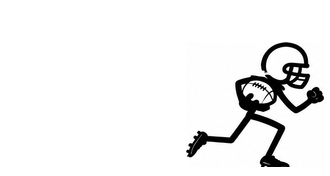
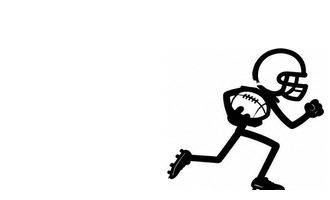
Call cards: Jason's figure library on all eleven, helmets matched
Jason mapped his library to the cards, reviewed a full mockup card by card and
said "Love it". Every call card now carries his art, except Left, middle, right,
which keeps its banana arrows:

- Ten yards: Run 2 (speed lines) / tackle. Move the chains: the linesman with
  the 1 pole / tackle. Convert on 3rd: his pointing first-down signal / the down
  box turned to 4. Kickoff: punt returner / ball on the tee. Drive end:
  touchdown signal, goal posts, punter, fumble. Break one: Run 2 / tackle.
  Three and out: punter / pointing signal. Red zone: celebration, field-goal
  pair, dropped pass.
- Touchdown, field goal, or nothing? is two across with Nothing on its own
  line below (.is-3stack) - "Maybe touchdown and field goal on the top line and
  nothing on its own line below?" Three across left "Touchdown" hitting the
  tile edge.
- tools/figures.mjs sizes by helmet, not by pixel: the sheets are drawn at
  different sizes, so each carries a helmet unit (calibrated on the rendered
  cards after "3 has a scale problem. 4 has a scale problem"), and every figure
  on a card gets one helmet size. Library figures stop at two thirds of the
  tile height so heads stay under the labels. trim() is told the paper is
  white - a flipped figure was being trimmed to a scrap.
- The play lines on Ten yards, Move the chains and Break one are switched off
  (LINE_ART is empty); their SVGs remain in ART for now.

Deployed beb8dca7 (812/812 tests, smoke 28 routes, /art figures 200).

Changed region(s): [[0.4848, 0.2273, 1.0, 0.9659]]

diff --git a/public/screens/live-game.screen.js b/public/screens/live-game.screen.js
@@ -3145,8 +3145,14 @@ function paint(wrap) {
      * keeps its own order (run first); only the card reorders, and the grid
      * flows by column so this list reads down the left, then down the right. */
     const SCRIPT_ORDER = ['pass_yes', 'pass_no', 'run_yes', 'run_no'];
-    /* Yes/no cards that carry a play line behind each tile - see .has-art. */
-    const LINE_ART = new Set(['explosive', 'first_down', 'drive_breakout']);
+    /* Yes/no cards that carry a play line behind each tile - see .has-art. Empty
+     * since Jason's figure library (2026-09-11) took those three cards; the SVGs
+     * stay in ART until he has seen the figures on them. */
+    const LINE_ART = new Set([]);
+    /* Cards with Jason's figures behind each tile - see .has-fig and
+     * tools/figures.mjs, which writes public/art/fig-<card>-<n>.png. */
+    const FIG_CARDS = new Set(['explosive', 'first_down', 'third_down', 'kickoff_return',
+      'drive_end', 'drive_breakout', 'three_and_out', 'redzone_outcome']);
     const SCRIPT_SHORT = { pass_yes: 'First down', pass_no: 'Short', run_yes: 'First down', run_no: 'Short' };
     const isScript = type.id === 'script';
     const shown = isScript
@@ -3156,7 +3162,9 @@ function paint(wrap) {
     const tiles = el('div', 'lg-tiles' + (isScript ? ' is-script' : priced.length > 3 ? ' is-4' : '')
       + ' n-' + priced.length + (type.id === 'fourth_down' ? ' is-fourth' : '')
       + (type.id === 'direction' ? ' is-dir' : '')
-      + (LINE_ART.has(type.id) ? ' has-art art-' + type.id : ''));
+      + (LINE_ART.has(type.id) ? ' has-art art-' + type.id : '')
+      + (FIG_CARDS.has(type.id) ? ' has-fig fig-' + type.id : '')
+      + (type.id === 'redzone_outcome' ? ' is-3stack' : ''));
     for (const o of shown) {
       const b = el('button', 'lg-tile');
       const win = Math.round(S.stake * o.pays) - S.stake;
@@ -5391,6 +5399,51 @@ const CSS = `
 /* "They break one" and "They do not" run nearly the width of the tile, so these
    two sit lower, under the label. */
 .art-drive_breakout .lg-tile::before { -webkit-mask-size: auto 70%; mask-size: auto 70%; }
+/* 🔴 JASON'S FIGURE LIBRARY ON THE REST OF THE CARDS - his "Look these over",
+   mapped card by card and "Yes" to a mockup of all eleven. Each tile's figure is
+   its own mask the shape of the tile (tools/figures.mjs), standing on the bottom
+   edge against the inner side, every figure on a card at one scale. */
+.lg-tiles.has-fig .lg-tile { position: relative; overflow: hidden; }
+.lg-tiles.has-fig .lg-tile > * { position: relative; }
+.lg-tiles.has-fig .lg-tile::before { content: ''; position: absolute; inset: 0; pointer-events: none;
+  background: var(--fg); opacity: .24; -webkit-mask: var(--art) no-repeat; mask: var(--art) no-repeat;
+  -webkit-mask-size: auto 100%; mask-size: auto 100%; }
+.lg-tiles.has-fig.n-2 .lg-tile:nth-child(1)::before, .lg-tiles.has-fig.is-4 .lg-tile:nth-child(odd)::before,
+.lg-tiles.has-fig.n-3 .lg-tile:nth-child(1)::before { -webkit-mask-position: right 0 bottom 0; mask-position: right 0 bottom 0; }
+.lg-tiles.has-fig.n-2 .lg-tile:nth-child(2)::before, .lg-tiles.has-fig.is-4 .lg-tile:nth-child(even)::before,
+.lg-tiles.has-fig.n-3 .lg-tile:nth-child(3)::before { -webkit-mask-position: left 0 bottom 0; mask-position: left 0 bottom 0; }
+.lg-tiles.has-fig.n-3 .lg-tile:nth-child(2)::before { -webkit-mask-position: center bottom; mask-position: center bottom; }
+.fig-explosive .lg-tile:nth-child(1) { --art: url('/art/fig-explosive-1.png'); }
+.fig-explosive .lg-tile:nth-child(2) { --art: url('/art/fig-explosive-2.png'); }
+.fig-first_down .lg-tile:nth-child(1) { --art: url('/art/fig-first_down-1.png'); }
+.fig-first_down .lg-tile:nth-child(2) { --art: url('/art/fig-first_down-2.png'); }
+.fig-third_down .lg-tile:nth-child(1) { --art: url('/art/fig-third_down-1.png'); }
+.fig-third_down .lg-tile:nth-child(2) { --art: url('/art/fig-third_down-2.png'); }
+.fig-kickoff_return .lg-tile:nth-child(1) { --art: url('/art/fig-kickoff_return-1.png'); }
+.fig-kickoff_return .lg-tile:nth-child(2) { --art: url('/art/fig-kickoff_return-2.png'); }
+.fig-drive_end .lg-tile:nth-child(1) { --art: url('/art/fig-drive_end-1.png'); }
+.fig-drive_end .lg-tile:nth-child(2) { --art: url('/art/fig-drive_end-2.png'); }
+.fig-drive_end .lg-tile:nth-child(3) { --art: url('/art/fig-drive_end-3.png'); }
+.fig-drive_end .lg-tile:nth-child(4) { --art: url('/art/fig-drive_end-4.png'); }
+.fig-drive_breakout .lg-tile:nth-child(1) { --art: url('/art/fig-drive_breakout-1.png'); }
+.fig-drive_breakout .lg-tile:nth-child(2) { --art: url('/art/fig-drive_breakout-2.png'); }
+.fig-three_and_out .lg-tile:nth-child(1) { --art: url('/art/fig-three_and_out-1.png'); }
+.fig-three_and_out .lg-tile:nth-child(2) { --art: url('/art/fig-three_and_out-2.png'); }
+.fig-redzone_outcome .lg-tile:nth-child(1) { --art: url('/art/fig-redzone_outcome-1.png'); }
+.fig-redzone_outcome .lg-tile:nth-child(2) { --art: url('/art/fig-redzone_outcome-2.png'); }
+.fig-redzone_outcome .lg-tile:nth-child(3) { --art: url('/art/fig-redzone_outcome-3.png'); }
+/* 🔴 TOUCHDOWN AND FIELD GOAL SIDE BY SIDE, NOTHING ON ITS OWN LINE. Jason,
+   2026-09-11: "Maybe touchdown and field goal on the top line and nothing on its
+   own line below?" Three across left no room - "Touchdown" ran into the tile's
+   edge and the figures sat behind the payouts. Two columns, the third tile across
+   both; text keeps the outer edges (Field goal right), Nothing reads from the
+   left with its figure at the far end. */
+.lg-tiles.is-3stack { grid-auto-flow: row; grid-template-columns: 1fr 1fr; }
+.lg-tiles.is-3stack .lg-tile:nth-child(3) { grid-column: 1 / -1; }
+.lg-tiles.is-3stack .lg-tile:nth-child(2) { text-align: right; justify-items: end; }
+.lg-tiles.is-3stack .lg-tile:nth-child(3) { text-align: left; justify-items: start; }
+.lg-tiles.has-fig.is-3stack .lg-tile:nth-child(2)::before { -webkit-mask-position: left 0 bottom 0; mask-position: left 0 bottom 0; }
+.lg-tiles.has-fig.is-3stack .lg-tile:nth-child(3)::before { -webkit-mask-position: right 0 bottom 0; mask-position: right 0 bottom 0; }
 /* The stoppage nugget - one true thing, while nothing is happening. */
 .lg-nugget { display: grid; gap: 6px; }
 .lg-nugget-h { font-size: var(--t-micro); font-weight: 800; letter-spacing: .08em;

diff --git a/art/figures/README.md b/art/figures/README.md
@@ -23,6 +23,9 @@ saved here as sent:
 - `jason-picks-2026-09-11.png` — a picked set: throws, runs with speed lines, the diving
   fumble and recovery, holder and kicker, the chain crew, goal posts, the touchdown signal.
 
+- `jason-first-down-signal-2026-09-11.png` — "First down signal": the referee pointing,
+  front-facing and side-on. The front-facing one replaced the library's arms-out figure.
+
 `node tools/figures.mjs` cuts them into `public/art/fig-*.png` (alpha masks, both figures
 on a card at one scale). Re-run it after changing the sheet or the crop boxes.
 
